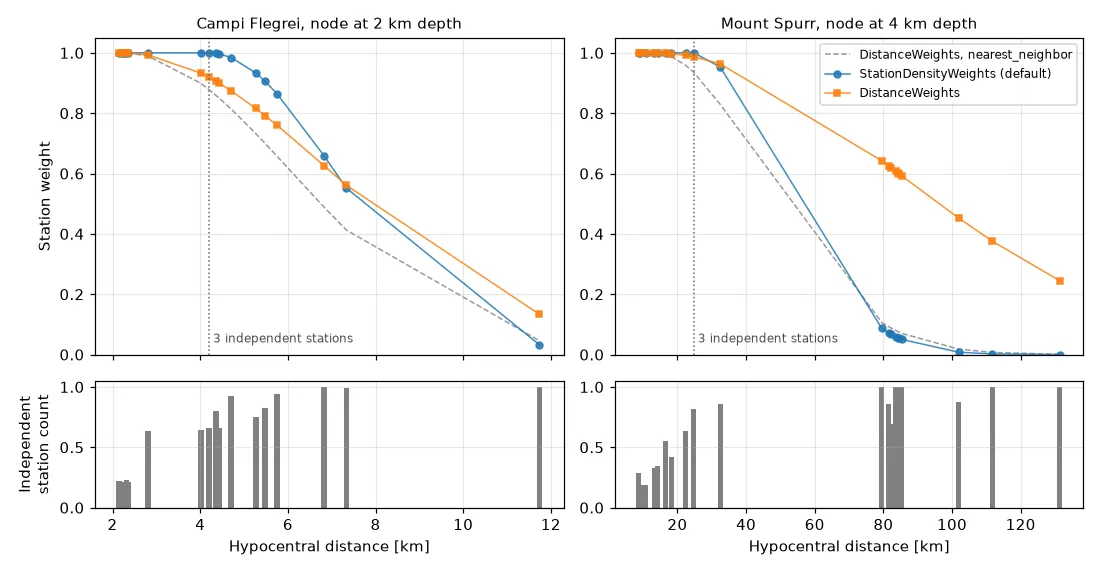
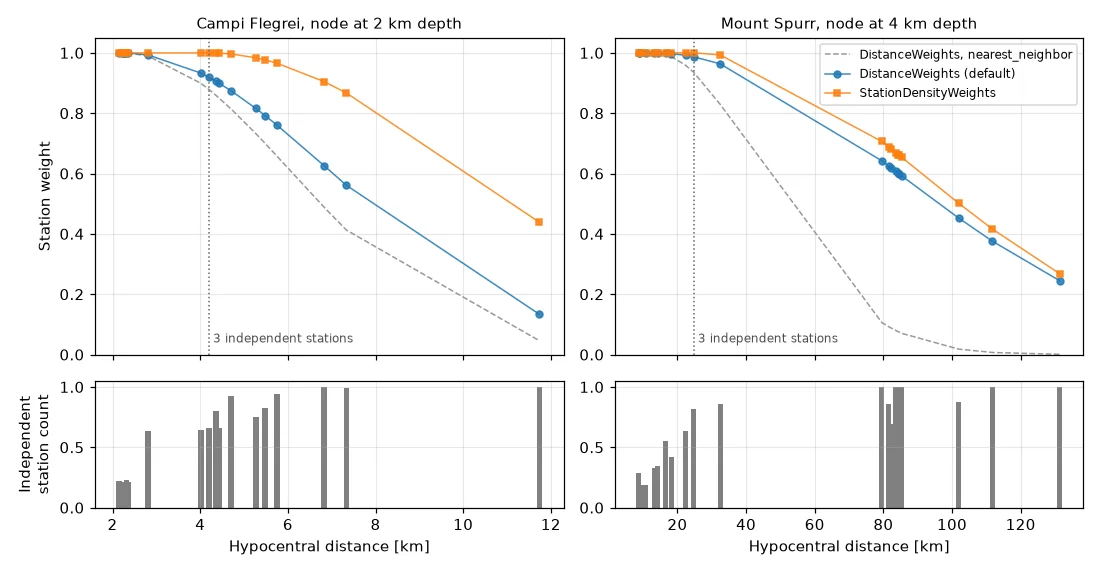
Station weights: DistanceWeights by default, smooth density taper
The capped taper of StationDensityWeights changes the weights steeply
between neighboring nodes. As the weights are normalized per node, the
stack then prefers the nodes where the stations that recorded an event
carry most of the weight: on Campi Flegrei (10 days) detections line up
on walls up to 3 km deep, at Norcia 14% of the well-constrained
detections lie above sea level (4.5% with DistanceWeights).

HypoDD cross-correlation residuals at the locations of each search
(Campi Flegrei 340 events, Norcia 3574 events) locate DistanceWeights
best on Campi Flegrei; narrower or wider tapers, more or fewer stations
of full weight and uniform weights all raise the residuals. On Norcia,
with a cluster of 12 stations, the density weights with a smooth taper
locate as well and find 6% more well-constrained detections.

- DistanceWeights are the default again, as on main.
- StationDensityWeights: taper_stations 16, taper_cap off by default.
- Docs and benchmark with the new results; figure with the defaults.

Claude-Session: https://claude.ai/code/session_01EeS39QH9ALhyZ2Ud7cvQ1c

diff --git a/src/qseek/station_weights.py b/src/qseek/station_weights.py
@@ -220,8 +220,8 @@ def weights_plateau_gaussian(
     distances: np.ndarray,
     counts: np.ndarray,
     plateau_stations: float = 3.0,
-    taper_stations: float = 8.0,
-    taper_cap: float | None = 1.0,
+    taper_stations: float = 16.0,
+    taper_cap: float | None = None,
 ) -> np.ndarray:
     """Gaussian taper beyond a plateau of the closest independent stations.
 
@@ -450,18 +450,19 @@ class StationDensityWeights(StationWeights):
         " stations of the network.",
     )
     taper_stations: PositiveFloat = Field(
-        default=8.0,
+        default=16.0,
         description="Number of independent stations that sets the width of the"
         " Gaussian taper: its standard deviation is half the distance at which the"
         " closest stations add up to this number. If the network has fewer"
         " independent stations, the most distant station sets the width.",
     )
     taper_cap: PositiveFloat | None = Field(
-        default=1.0,
+        default=None,
         description="Maximum standard deviation of the Gaussian taper, in units of"
-        " the plateau distance of the node. It keeps the taper short when a gap in"
+        " the plateau distance of the node. It shortens the taper when a gap in"
         " the network puts the `taper_stations` far away, e.g. between local and"
-        " regional stations. If `null`, the taper width is not limited.",
+        " regional stations. A short taper changes the weights steeply between"
+        " nodes and moves the locations. If `null`, the taper width is not limited.",
     )
 
     def prepare(self, stations: StationInventory, octree: Octree) -> None:

diff --git a/test/test_station_weights.py b/test/test_station_weights.py
@@ -377,7 +377,7 @@ def test_weights_plateau_gaussian_taper_cap():
     distances = np.array([[1.0, 2.0, 3.0, 50.0, 60.0, 70.0, 80.0]]) * KM
     plateau, taper = 3 * KM, 70 * KM
     uncapped = weights_plateau_gaussian(distances, np.ones(7), 3.0, 6.0, taper_cap=None)
-    capped = weights_plateau_gaussian(distances, np.ones(7), 3.0, 6.0)
+    capped = weights_plateau_gaussian(distances, np.ones(7), 3.0, 6.0, taper_cap=1.0)
     # The cap limits sigma to the plateau distance
     for weights, sigma in ((uncapped, taper / 2), (capped, plateau)):
         expected = np.exp(-((distances - plateau) ** 2) / (2 * sigma**2))
@@ -388,7 +388,7 @@ def test_weights_plateau_gaussian_taper_cap():
     # Without a gap the cap does not bind
     distances = np.arange(1, 21, dtype=float)[np.newaxis, :] * KM
     np.testing.assert_allclose(
-        weights_plateau_gaussian(distances, np.ones(20), 4.0, 8.0),
+        weights_plateau_gaussian(distances, np.ones(20), 4.0, 8.0, 1.0),
         weights_plateau_gaussian(distances, np.ones(20), 4.0, 8.0, None),
     )
 
@@ -575,7 +575,7 @@ def test_station_weights_config():
 
     from qseek.search import Search
 
-    assert isinstance(Search().station_weights, StationDensityWeights)
+    assert isinstance(Search().station_weights, DistanceWeights)
     assert Search.model_validate({"station_weights": None}).station_weights is None
 
     for model in (

diff --git a/src/qseek/search.py b/src/qseek/search.py
@@ -39,7 +39,7 @@ from qseek.pre_processing.frequency_filters import Bandpass
 from qseek.pre_processing.module import PreProcessing, Resample
 from qseek.reduce import DelaySumReduce
 from qseek.server import WebServer
-from qseek.station_weights import StationDensityWeights, StationWeightsType
+from qseek.station_weights import DistanceWeights, StationWeightsType
 from qseek.stats import RuntimeStats, Stats
 from qseek.tracers.fast_marching import FastMarchingTracer
 from qseek.tracers.tracers import RayTracers
@@ -294,7 +294,7 @@ class Search(Model):
         description="List of ray tracers for travel time calculation.",
     )
     station_weights: StationWeightsType | None = Field(
-        default_factory=StationDensityWeights,
+        default_factory=DistanceWeights,
         description="Weights of the stations for every node of the search volume."
         " If `null`, all stations get the same weight.",
     )

diff --git a/docs/about/benchmark.md b/docs/about/benchmark.md
@@ -25,39 +25,41 @@ The [performance guide](../guides/performance.md) shows which settings make your
 
 ## Station weights
 
-The [station weights](../configuration/station-weights.md) decide which events the stack detects. Their defaults are calibrated on the examples of the [playground](../getting-started/playground.md) and on a synthetic benchmark of seven networks.
+The [station weights](../configuration/station-weights.md) decide which events the stack detects and where it locates them. Their defaults are chosen on the examples of the [playground](../getting-started/playground.md).
 
 ### Playground
 
-Each example searched with the defaults of the station weights, `MADTrigger` with `mad_factor` 10. A detection is well constrained with at least 8 picks, at Norcia with at least 20:
+Each example searched with `MADTrigger`, `mad_factor` 10, and the defaults of each station weights model. A detection is well constrained with at least 8 picks, at Norcia with at least 20:
 
 | Example | Station weights | Detections | Well constrained | Residual RMS, median | Catalog events matched | Epicenter offset, median |
 | --- | --- | --- | --- | --- | --- | --- |
-| Campi Flegrei, 1 day, 18 stations | `StationDensityWeights` | 954 | 524 | 0.282 s | 45 / 45 | 216 m |
-| | `DistanceWeights` | 732 | 521 | 0.284 s | 45 / 45 | 241 m |
-| | `DistanceWeights`, `"nearest_neighbor"` | 750 | 525 | 0.286 s | 45 / 45 | 238 m |
-| Campi Flegrei, 10 days, 19 stations | `StationDensityWeights` | 8189 | 3799 | 0.278 s | 210 / 211 | 295 m |
-| | `DistanceWeights` | 6379 | 3750 | 0.278 s | 209 / 211 | 280 m |
-| | `DistanceWeights`, `"nearest_neighbor"` | 6614 | 3772 | 0.280 s | 209 / 211 | 293 m |
-| Mount Spurr, 3 days, 10 local and 10 regional stations | `StationDensityWeights` | 2457 | 1140 | 0.338 s | 229 / 234 | 409 m |
-| | `DistanceWeights` | 1758 | 1046 | 0.349 s | 228 / 234 | 416 m |
-| | `DistanceWeights`, `"nearest_neighbor"` | 2210 | 1070 | 0.318 s | 230 / 234 | 348 m |
-| Norcia, 3 days, 49 stations with a cluster of 12 | `StationDensityWeights` | 4279 | 3874 | 0.325 s | 1026 / 1071 | 668 m |
-| | `DistanceWeights` | 3732 | 3602 | 0.310 s | 1013 / 1071 | 635 m |
-| | `DistanceWeights`, `"nearest_neighbor"` | 3972 | 3747 | 0.314 s | 1020 / 1071 | 648 m |
+| Campi Flegrei, 1 day, 18 stations | `DistanceWeights` | 731 | 521 | 0.285 s | 45 / 45 | 242 m |
+| | `StationDensityWeights` | 753 | 512 | 0.281 s | 45 / 45 | 247 m |
+| | `DistanceWeights`, `"nearest_neighbor"` | 750 | 523 | 0.284 s | 45 / 45 | 240 m |
+| Campi Flegrei, 10 days, 19 stations | `DistanceWeights` | 6382 | 3760 | 0.278 s | 209 / 211 | 277 m |
+| | `StationDensityWeights` | 6320 | 3711 | 0.279 s | 209 / 211 | 263 m |
+| | `DistanceWeights`, `"nearest_neighbor"` | 6623 | 3772 | 0.279 s | 209 / 211 | 288 m |
+| Mount Spurr, 3 days, 10 local and 10 regional stations | `DistanceWeights` | 1756 | 1048 | 0.346 s | 228 / 234 | 419 m |
+| | `StationDensityWeights` | 1774 | 1051 | 0.348 s | 228 / 234 | 440 m |
+| | `DistanceWeights`, `"nearest_neighbor"` | 2214 | 1074 | 0.320 s | 230 / 234 | 360 m |
+| Norcia, 3 days, 49 stations with a cluster of 12 | `DistanceWeights` | 3734 | 3603 | 0.309 s | 1013 / 1071 | 644 m |
+| | `StationDensityWeights` | 4036 | 3817 | 0.312 s | 1024 / 1071 | 646 m |
+| | `DistanceWeights`, `"nearest_neighbor"` | 3971 | 3746 | 0.313 s | 1020 / 1071 | 651 m |
 
-At Mount Spurr, the `DistanceWeights` taper over twice the mean interstation distance, 166 km, keeps the regional stations 80 km to 130 km away at weights of 0.25 to 0.65. `StationDensityWeights` lower them to 0.09 and less, find 40% more detections and 94 more well-constrained detections. At Norcia, the INGV catalog lists routine locations, 4 km deeper than the relocations of the sequence (Chiaraluce et al., 2017); its epicenter offsets differ by less than 35 m between the station weights.
+The residual RMS grows with the number of picks, and the catalogs list only the larger events with locations of their own. At Norcia, the INGV catalog lists routine locations, 4 km deeper than the relocations of the sequence (Chiaraluce et al., 2017). Neither measures how consistently the detections are located.
 
-The cap of the taper, `taper_cap` 1.0, finds 12% and 14% more detections on Campi Flegrei (1 and 10 days) and 20% more at Mount Spurr than no cap, with 59 more well-constrained detections at Mount Spurr. A cap of 0.75 raises the residuals on Campi Flegrei, caps of 1.25 and 1.5 move the epicenters at Mount Spurr farther from the catalog. At Norcia, without a gap between the stations, the cap finds 14 fewer detections and 46 fewer well-constrained detections than no cap.
+### Relative locations
 
-### Synthetic networks
+HypoDD relocates the detections of the `DistanceWeights` search with catalog and cross-correlation differential times. The double-difference residuals of the cross-correlation data, evaluated at the locations of each search, measure how consistently a search locates neighboring events, independent of its picks. Lower is better. Campi Flegrei, 1 day, 340 detections in all searches; Norcia, 3574 detections:
 
-The synthetic benchmark stacks 6 hours of phase confidences for each of seven networks, two random realizations each: an observatory cluster with co-located sensors and a regional ring; a regional network with a dense sub-array; the station layouts of Campi Flegrei, Mount Spurr and Norcia; a small network of 7 stations; and a nodal line of 40 stations 30 m apart next to 8 permanent stations. Arrivals of synthetic events, Gutenberg-Richter magnitudes, have confidences from their signal-to-noise ratio and travel times through a heterogeneous velocity model; noisy stations add false peaks. The table gives the share of the events with at least 6 picks that each station weights detect at 2 false detections per hour, and the median change of the location error against `DistanceWeights`, paired by event:
+| Station weights | Campi Flegrei, median | Campi Flegrei, 90th percentile | Norcia, median | Norcia, 90th percentile |
+| --- | --- | --- | --- | --- |
+| `DistanceWeights` | 53.6 ms | 168 ms | 42.6 ms | 153 ms |
+| `StationDensityWeights` | 57.6 ms | 187 ms | 41.5 ms | 151 ms |
+| `DistanceWeights`, `"nearest_neighbor"` | 54.0 ms | 173 ms | 41.3 ms | 152 ms |
+| `StationDensityWeights`, `taper_stations` 8, `taper_cap` 1.0 | 56.7 ms | 194 ms | 42.7 ms | 167 ms |
+| `null`, all stations the same weight | 56.9 ms | 190 ms | | |
 
-| Station weights | Observatory | Regional | Campi Flegrei | Mount Spurr | Norcia | Small | Nodal | Location change |
-| --- | --- | --- | --- | --- | --- | --- | --- | --- |
-| `StationDensityWeights` | 0.86 | 0.38 | 1.00 | 0.86 | 0.34 | 0.74 | 0.69 | −3 m to 5 m |
-| `DistanceWeights` | 0.65 | 0.23 | 1.00 | 0.76 | 0.22 | 0.78 | 0.84 | 0 m |
-| `DistanceWeights`, `"nearest_neighbor"` | 0.60 | 0.38 | 1.00 | 0.78 | 0.27 | 0.76 | 0.52 | −2 m to 1450 m |
+On Campi Flegrei, `DistanceWeights` with 6 and 8 stations of full weight reach 174 ms and 183 ms (90th percentile), with 2 and 3 stations 175 ms and 172 ms, with a taper of 6 km and 16 km instead of the 11 km of `"mean_interstation"` 188 ms and 177 ms. The evaluation favors the search that HypoDD relocated: relocated from `DistanceWeights` with 8 stations of full weight instead, `DistanceWeights` with 4, 6 and 8 stations reach 178 ms, 181 ms and 171 ms, and all other station weights stay above them.
 
-The station weights hardly change the location of an event once it is detected; they change which events the stack detects. On the nodal network, the median distance between neighboring sites is the 60 m spacing of the nodes. It narrows the density kernel of `StationDensityWeights`, and the `"nearest_neighbor"` taper of `DistanceWeights` leaves only the nodal line in the stack, with location errors 1.4 km larger (median).
+A short taper locates the detections least consistently. With `taper_stations` 8 and `taper_cap` 1.0, the 10-day search on Campi Flegrei places detections on walls up to 3 km deep. At Norcia, 14% of the well-constrained detections lie above sea level, 4.5% with `DistanceWeights`, and 382 residuals at their locations exceed the output format of HypoDD. The weights are normalized per node, so a taper that changes steeply between neighboring nodes moves the maximum of the stack. Without any taper, the noise of distant stations degrades the locations as well.

diff --git a/docs/configuration/station-weights.md b/docs/configuration/station-weights.md
@@ -10,8 +10,8 @@ Station weights decide how much each station contributes to the stack of a node.
 
 | Station weights | Full weight | Taper |
 | --- | --- | --- |
-| [`StationDensityWeights`](#station-density-weights) (default) | The closest 3 independent stations, up to the plateau distance $d_p$ | Gaussian, standard deviation σ from the distance of the closest 8 independent stations, at most σ = $d_p$ |
-| [`DistanceWeights`](#distance-weights) | The 4 closest stations | Gaussian, full width at half maximum twice the mean interstation distance |
+| [`DistanceWeights`](#distance-weights) (default) | The 4 closest stations | Gaussian, full width at half maximum twice the mean interstation distance |
+| [`StationDensityWeights`](#station-density-weights) | The closest 3 independent stations, up to the plateau distance $d_p$ | Gaussian, standard deviation σ from the distance of the closest 16 independent stations |
 
 `station_weights` takes one of them. With `null`, all stations get the same weight.
 
@@ -22,10 +22,10 @@ Station weights of a node, with the defaults, for two examples of the [playgroun
 
 ## Choose the station weights
 
-- **`StationDensityWeights`**, the default, adapt the plateau and the taper to the station spacing around each node. They suit local and regional networks, clusters of stations, co-located sensors and gaps between local and regional stations.
-- **`DistanceWeights`** give the 4 closest stations full weight and taper with an absolute width, the same for all nodes. Use them to reproduce runs of earlier Qseek versions, or for a network with a dense nodal array: the spacing of the array sets the width of the density kernel of `StationDensityWeights`.
+- **`DistanceWeights`**, the default, give the 4 closest stations full weight and taper over twice the mean interstation distance. They locate best on the examples of the playground and suit most local and regional networks.
+- **`StationDensityWeights`** count the stations of a dense cluster as fewer independent stations and adapt the plateau and the taper to the station spacing around each node. Try them for a network with a dense cluster of stations next to sparse stations. On Norcia, 49 stations with a cluster of 12, they find 6% more well-constrained detections than `DistanceWeights` at the same location accuracy. On Campi Flegrei they locate less consistently.
 
-On the four examples of the playground, `StationDensityWeights` find 15% to 40% more detections than `DistanceWeights`, 94 more well-constrained detections at Mount Spurr; the median epicenter offsets to the catalogs differ by less than 35 m. The [benchmark](../about/benchmark.md#station-weights) has the results on the playground and on synthetic networks.
+The weights change from node to node, and they are normalized per node. A taper that falls off steeply between neighboring nodes therefore moves the locations as well: the stack prefers the nodes where the stations that recorded the event carry most of the weight. Keep the taper smooth. Over the distances where stations still record the events, the weights should decay as the phase confidence decays with distance. On the playground, a narrower taper and more or fewer stations with full weight both locate the detections less consistently than the defaults of `DistanceWeights`. The [benchmark](../about/benchmark.md#station-weights) has the results.
 
 ## Independent stations
 
@@ -41,13 +41,13 @@ On Campi Flegrei, the 18 INGV stations count as 11.1 independent stations: the s
 
 ## Station density weights
 
-The closest stations of a node get full weight until they add up to `plateau_stations` independent stations, 3 by default, at the plateau distance $d_p$. In a dense cluster more stations get full weight than in a sparse network. Beyond $d_p$, a Gaussian taper decays; its standard deviation is half the distance at which the closest stations add up to `taper_stations`, 8 by default. When the network has fewer independent stations than `taper_stations`, the most distant station sets the width.
+The closest stations of a node get full weight until they add up to `plateau_stations` independent stations, 3 by default, at the plateau distance $d_p$. In a dense cluster more stations get full weight than in a sparse network. Beyond $d_p$, a Gaussian taper decays; its standard deviation is half the distance at which the closest stations add up to `taper_stations`, 16 by default. When the network has fewer independent stations than `taper_stations`, the most distant station sets the width.
 
-A gap in the network can put the `taper_stations` far away. At Mount Spurr, the ten local stations within 32 km count as 4.6 independent stations; the closest stations add up to 8 only among the regional stations beyond 79 km. The taper would reach across the gap and keep the regional stations at weights of up to 0.43, although they rarely record the small events of the swarm. `taper_cap` limits the standard deviation of the taper, to 1.0 $d_p$ by default. Without a gap the cap rarely binds: on Campi Flegrei the standard deviation is 0.77 $d_p$ (median over the nodes), and the cap binds at 12% of the nodes. With a standard deviation of $d_p$, the weight is 0.5 at 2.2 $d_p$.
+`taper_cap` limits the standard deviation of the taper, in units of $d_p$. It is off by default. A gap in the network can put the `taper_stations` far away, e.g. between local and regional stations, and the cap shortens the taper to the local stations. A short taper, however, changes the weights steeply between neighboring nodes and moves the locations. With `taper_stations` 8 and `taper_cap` 1.0, the 10-day example of Campi Flegrei shows walls of detections up to 3 km deep, and at Norcia detections move above sea level. Use the cap only if distant stations add more noise than signal, and check the locations.
 
 ![Taper cap](../images/station-weights-taper-cap.webp)
 /// caption
-The cap of the taper on two nodes of the playground examples. Top: the closest stations add up to independent stations; $d_p$ marks 3 independent stations, the plateau, $d_8$ marks 8, which sets the taper width $\sigma = d_8 / 2$. Bottom: the station weights without the cap (orange) and with `taper_cap` 1.0 (green). Left: on Campi Flegrei, without a gap, the cap does not bind. Right: at Mount Spurr, $d_8$ lies beyond the gap between the local and the regional stations; the cap shortens the taper width by 40%, from 41.8 km to 24.8 km, and lowers the weights of the regional stations to 0.09 and less.
+The cap of the taper on two nodes of the playground examples, with `taper_stations` 8. Top: the closest stations add up to independent stations; $d_p$ marks 3 independent stations, the plateau, $d_8$ marks 8, which sets the taper width $\sigma = d_8 / 2$. Bottom: the station weights without the cap (orange) and with `taper_cap` 1.0 (green). Left: on Campi Flegrei, without a gap, the cap does not bind. Right: at Mount Spurr, $d_8$ lies beyond the gap between the local and the regional stations; the cap shortens the taper width by 40%, from 41.8 km to 24.8 km, and lowers the weights of the regional stations to 0.09 and less.
 ///
 
 ```python exec='on'
@@ -69,7 +69,7 @@ print(json_example(StationDensityWeights()))
 
 The `required_closest_stations` closest stations of a node get full weight, 4 by default. More distant stations are tapered with a Gaussian function; `distance_taper` is its full width at half maximum, twice the mean interstation distance by default, `"mean_interstation"`.
 
-`"nearest_neighbor"` sets the taper to 6 times the median distance between neighboring station sites. On networks of similar station spacing it adapts the taper to the spacing: at Mount Spurr, its 74 km taper moves the epicenters 67 m closer to the catalog than the 166 km of `"mean_interstation"`. Do not use it for networks with a dense array: the spacing of the array sets the median.
+`"nearest_neighbor"` sets the taper to 6 times the median distance between neighboring station sites. On networks of similar station spacing it adapts the taper to the spacing: at Mount Spurr, its 74 km taper moves the epicenters 59 m closer to the catalog than the 166 km of `"mean_interstation"`. Do not use it for networks with a dense array: the spacing of the array sets the median.
 
 ```python exec='on'
 from qseek.utils import json_example

diff --git a/docs/guides/tune-detection.md b/docs/guides/tune-detection.md
@@ -28,7 +28,7 @@ A first search with the defaults tells you a lot about your data. This guide sho
 
 - **Threshold:** raise the `threshold` of the trigger above the semblance of the noise.
 - **Picks:** filter the detections by `n_picks`. Noise rarely produces consistent picks at many stations.
-- **Station weights:** with the default [station weights](../configuration/station-weights.md), each node relies on its closest stations. Noise at a single close station can dominate small networks; increase [`plateau_stations`][qseek.station_weights.StationDensityWeights.plateau_stations], the number of independent stations with full weight.
+- **Station weights:** with the default [station weights](../configuration/station-weights.md), each node relies on its closest stations. Noise at a single close station can dominate small networks; increase [`required_closest_stations`][qseek.station_weights.DistanceWeights.required_closest_stations], the number of stations with full weight.
 
 ## Imprecise locations
 
